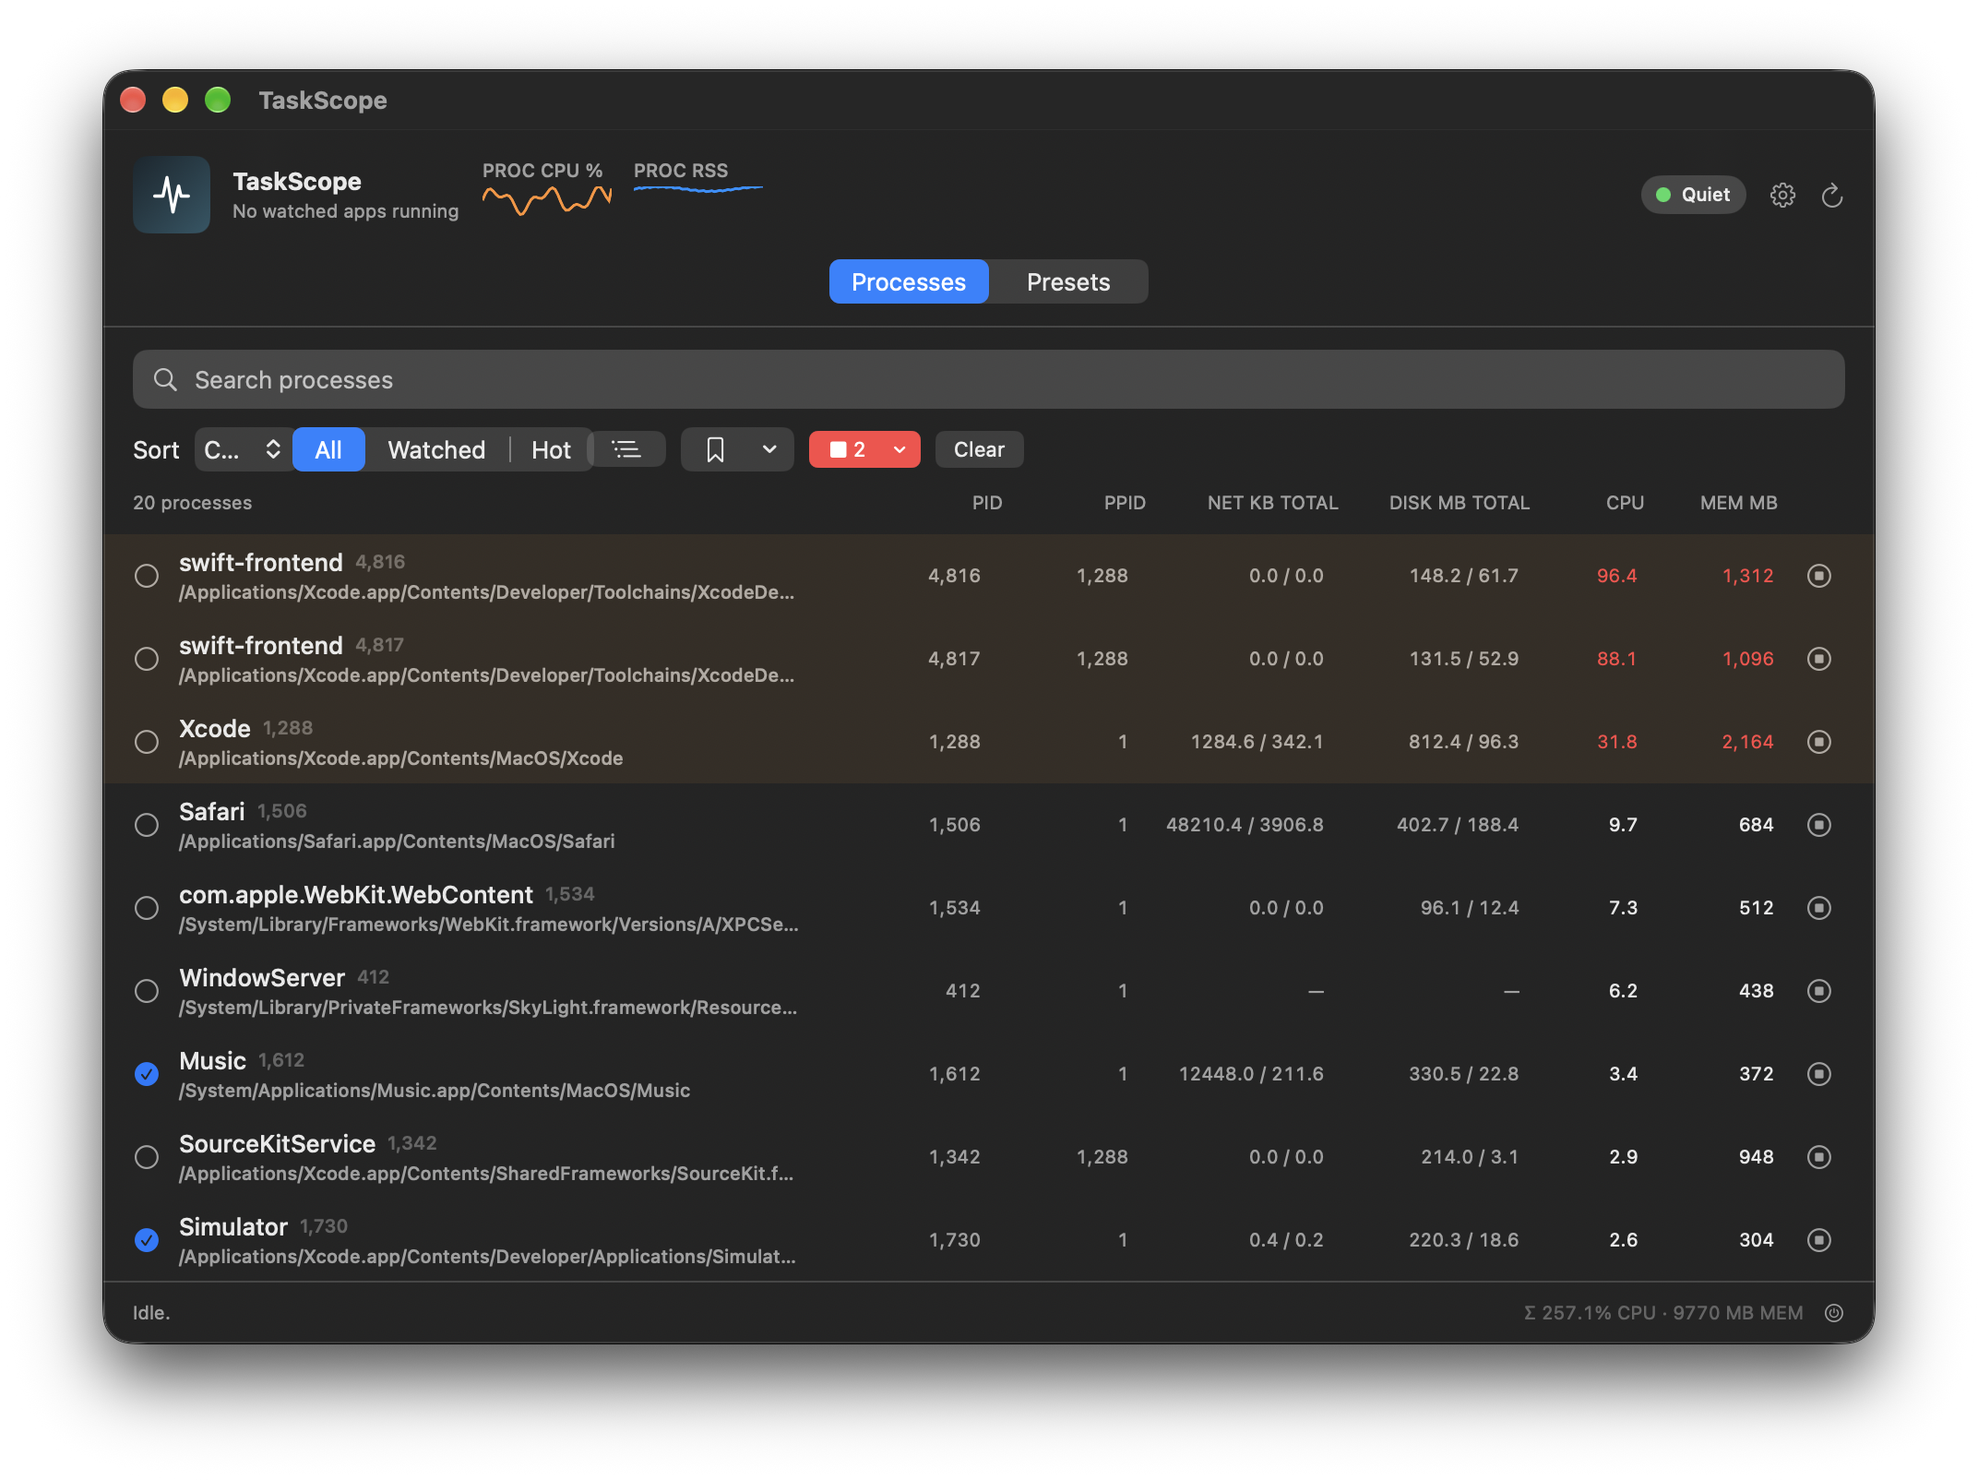
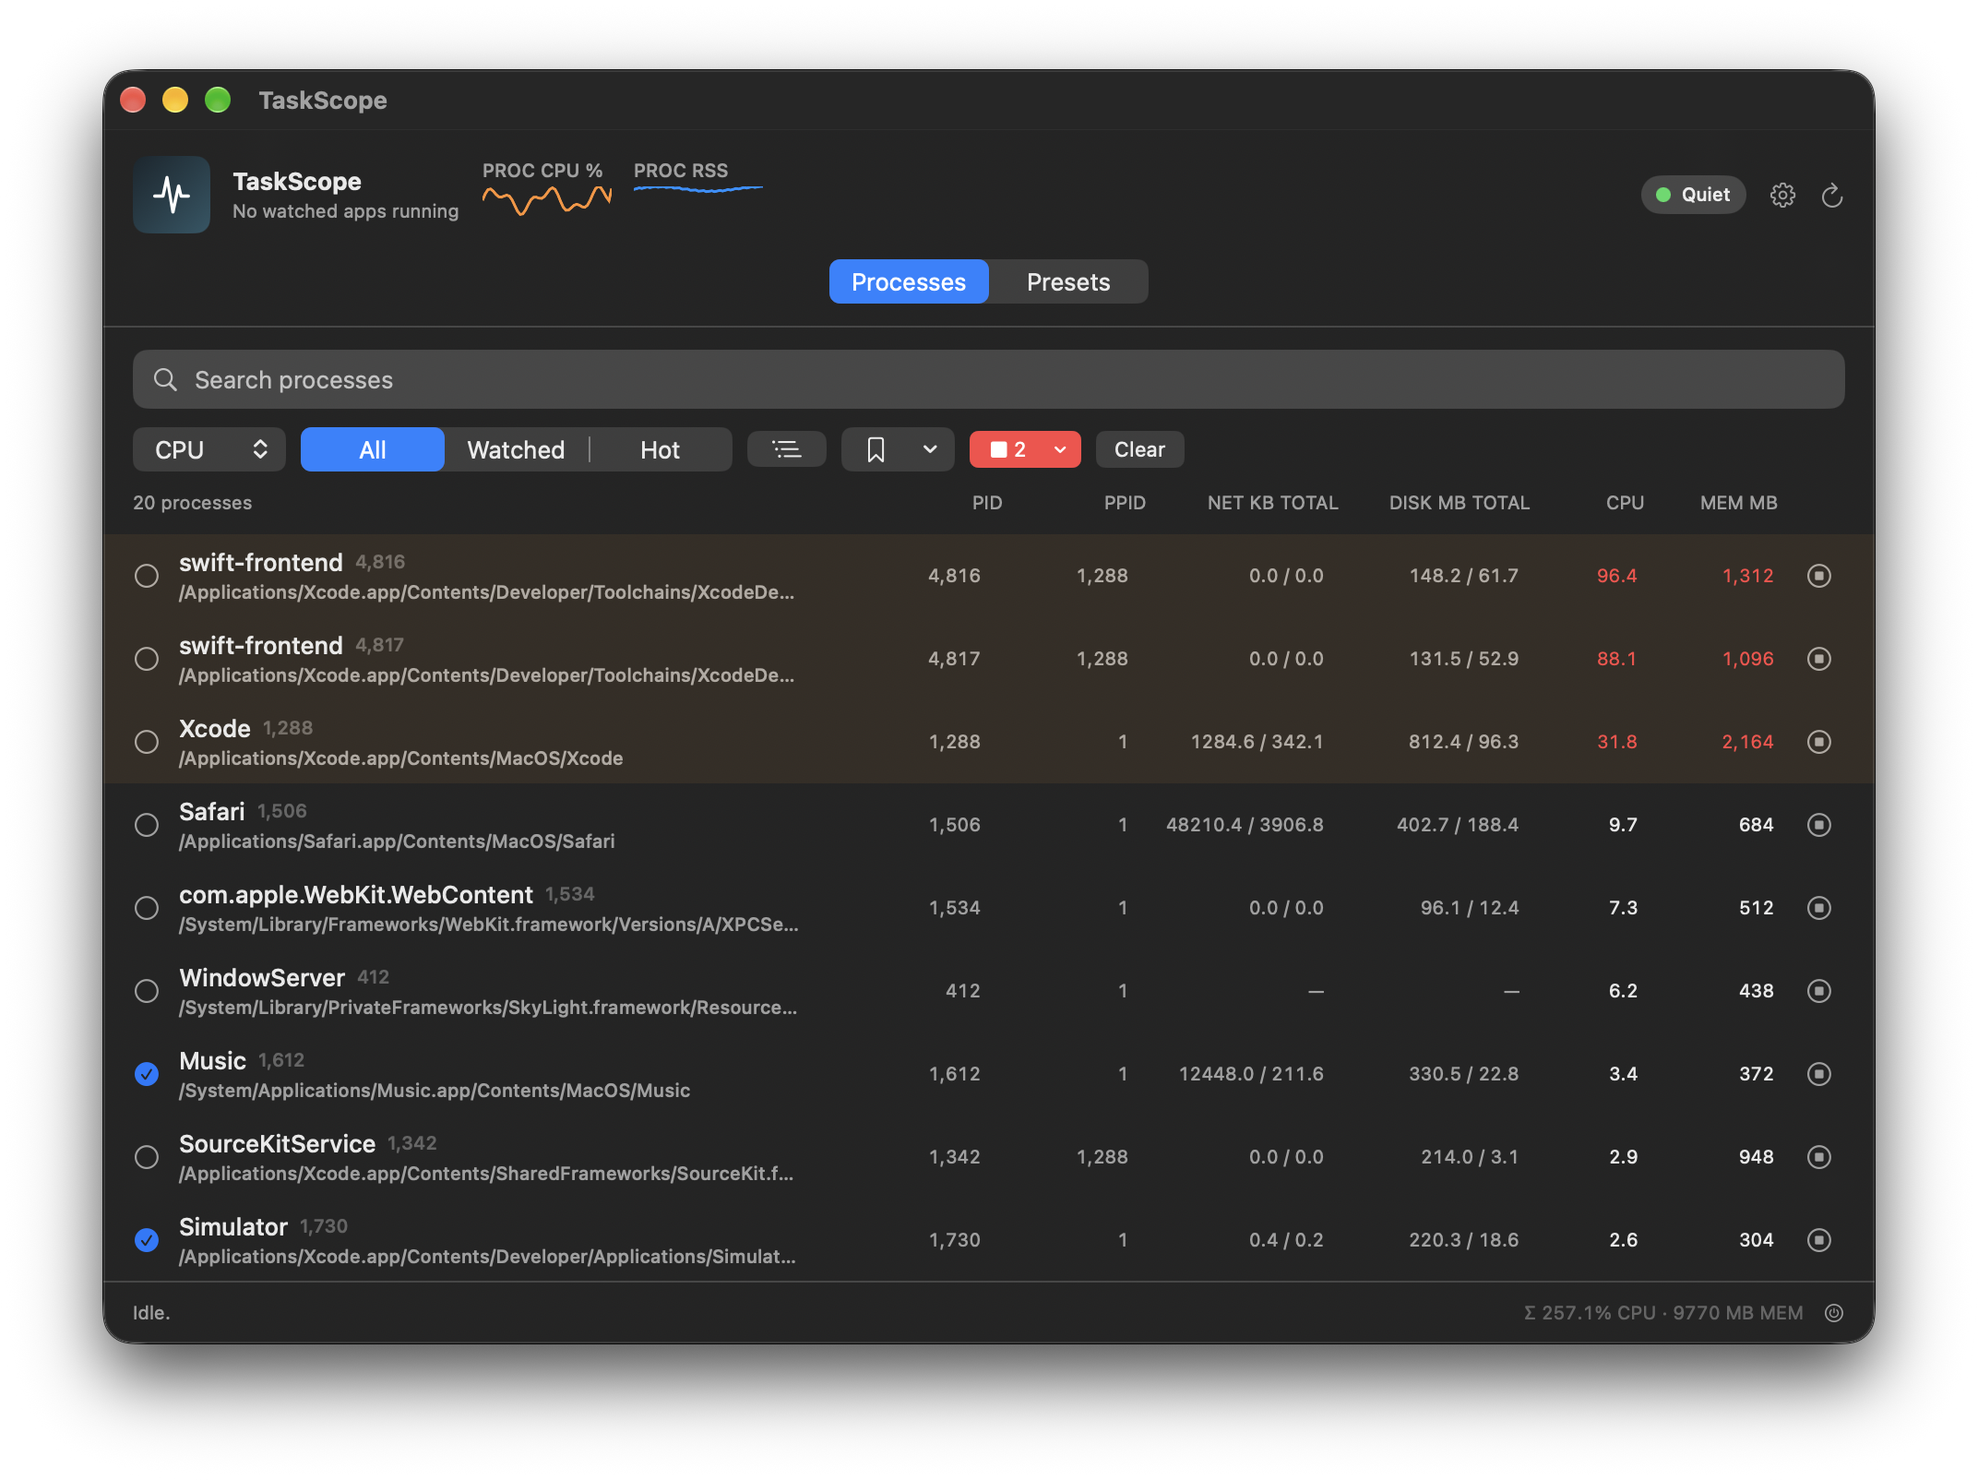
Size the Sort picker to its keys and wrap compact toolbar controls
On macOS 26 and later the Sort picker's visible label and popup shared a
fixed 90 pt frame, so the selected key rendered as "C..." instead of "CPU".
The filter control's fixed 140 pt frame was also narrower than its 234 pt
segmented control, which then overlapped its neighbors. In the 480 pt menu
bar popover a selection's stop menu and Clear button truncated as well.

Hide the Sort label (VoiceOver still reads "Sort", and a "Sort By" tooltip
replaces it), size both pickers to their content, and let ViewThatFits move
the saved-selection and selection controls to a second row when one row
does not fit. Refresh the main window screenshots.

Changed region(s): [[0.0625, 0.2805, 0.5938, 0.3429]]

diff --git a/Sources/TaskScope/Views/TaskScopePopoverView.swift b/Sources/TaskScope/Views/TaskScopePopoverView.swift
@@ -529,135 +529,23 @@ struct TaskScopePopoverView: View {
             .padding(.horizontal, 16)
             .padding(.top, 12)
 
-            HStack(spacing: 8) {
-                Picker("Sort", selection: Binding(
-                    get: { settings.sortKey },
-                    set: { newValue in
-                        settings.sortKeyRaw = newValue.rawValue
-                        processManager.sortKey = newValue
+            // The compact popover cannot fit every control on one row once a
+            // selection adds its actions, so the selection controls wrap below.
+            ViewThatFits(in: .horizontal) {
+                HStack(spacing: 8) {
+                    processListDisplayControls
+                    selectionControls
+                }
+                VStack(alignment: .leading, spacing: 8) {
+                    HStack(spacing: 8) {
+                        processListDisplayControls
                     }
-                )) {
-                    ForEach(ProcessSortKey.allCases) { key in
-                        Text(key.label).tag(key)
+                    HStack(spacing: 8) {
+                        selectionControls
                     }
                 }
-                .pickerStyle(.menu)
-                .frame(width: 90)
-
-                Picker("Filter", selection: $filterMode) {
-                    ForEach(ProcessFilterMode.allCases) { mode in
-                        Text(mode.label).tag(mode)
-                    }
-                }
-                .pickerStyle(.segmented)
-                .labelsHidden()
-                .frame(width: 140)
-
-                Toggle(isOn: $treeMode) {
-                    Label("Tree", systemImage: "list.bullet.indent")
-                        .labelStyle(.iconOnly)
-                }
-                .toggleStyle(.button)
-                .help("Tree View")
-                .accessibilityLabel("Tree view")
-                .accessibilityValue(treeMode ? "On" : "Off")
-
-                Menu {
-                    if let recoveryMessage = savedSelections.recoveryMessage {
-                        Text(recoveryMessage)
-                        if savedSelections.isReadOnlyAfterCorruption {
-                            // Saving stays disabled until this is pressed, so without
-                            // it the user could never save a selection again.
-                            Button("Reset Saved Selections After Backup") {
-                                savedSelections.resetAfterCorruption()
-                            }
-                        }
-                        Divider()
-                    }
-                    if savedSelections.selections.isEmpty {
-                        Text("No saved selections")
-                    } else {
-                        ForEach(savedSelections.selections) { sel in
-                            Menu(sel.name) {
-                                Button("Preview & Recall…") {
-                                    // Resolve against a fresh inventory: the list may
-                                    // never have been loaded, or may be a poll old.
-                                    Task {
-                                        guard await processManager.loadProcessList(showMessage: false) else {
-                                            pendingRecallResult = nil
-                                            pendingRecallSelection = nil
-                                            processManager.setMessage("Could not preview saved selection: \(processManager.processLoadError ?? "the process list could not be refreshed").")
-                                            return
-                                        }
-                                        pendingRecallResult = savedSelections.resolve(
-                                            sel,
-                                            in: processManager.inventorySnapshot
-                                        )
-                                        pendingRecallSelection = sel
-                                    }
-                                }
-                                Button("Rename…") {
-                                    savedSelections.clearValidationError()
-                                    renameSelectionName = sel.name
-                                    renameSelection = sel
-                                }
-                                Divider()
-                                Button("Delete", role: .destructive) {
-                                    savedSelections.remove(sel)
-                                }
-                            }
-                        }
-                        Divider()
-                    }
-                    if !processManager.selectedPids.isEmpty {
-                        Button("Save Current Selection…") {
-                            savedSelections.clearValidationError()
-                            saveSelectionName = ""
-                            showSaveSelectionSheet = true
-                        }
-                    }
-                } label: {
-                    Label("Saved", systemImage: "bookmark")
-                        .labelStyle(.iconOnly)
-                }
-                .help("Saved Selections")
-                .accessibilityLabel("Saved selections")
-
-                if !processManager.selectedPids.isEmpty {
-                    Menu {
-                        Button("Stop Selected…", role: .destructive) {
-                            confirmationState.requestBatch(
-                                processManager.selectionSnapshot(),
-                                mode: .normal
-                            )
-                        }
-                        Button("Force Stop Selected…", role: .destructive) {
-                            confirmationState.requestBatch(
-                                processManager.selectionSnapshot(),
-                                mode: .force
-                            )
-                        }
-                    } label: {
-                        Label("\(processManager.selectedPids.count)", systemImage: "stop.fill")
-                    }
-                    .buttonStyle(.borderedProminent)
-                    .tint(.red)
-                    .controlSize(.small)
-                    .accessibilityLabel(
-                        "Actions for \(processManager.selectedPids.count) selected processes"
-                    )
-
-                    Button {
-                        processManager.clearSelection()
-                    } label: {
-                        Text("Clear")
-                    }
-                    .buttonStyle(.bordered)
-                    .controlSize(.small)
-                }
-
-                Spacer()
             }
+            .frame(maxWidth: .infinity, alignment: .leading)
             .padding(.horizontal, 16)
 
             if processManager.hasLoadedProcessList,
@@ -801,6 +689,143 @@ struct TaskScopePopoverView: View {
                     }
                 }
             }
+        }
+    }
+
+    @ViewBuilder
+    private var processListDisplayControls: some View {
+        Picker("Sort", selection: Binding(
+            get: { settings.sortKey },
+            set: { newValue in
+                settings.sortKeyRaw = newValue.rawValue
+                processManager.sortKey = newValue
+            }
+        )) {
+            ForEach(ProcessSortKey.allCases) { key in
+                Text(key.label).tag(key)
+            }
+        }
+        .pickerStyle(.menu)
+        // A fixed frame shared with the visible label truncated the selected
+        // key on macOS 26, so the popup sizes itself to its widest key.
+        .labelsHidden()
+        .fixedSize()
+        .help("Sort By")
+        .accessibilityLabel("Sort")
+
+        Picker("Filter", selection: $filterMode) {
+            ForEach(ProcessFilterMode.allCases) { mode in
+                Text(mode.label).tag(mode)
+            }
+        }
+        .pickerStyle(.segmented)
+        .labelsHidden()
+        .fixedSize()
+
+        Toggle(isOn: $treeMode) {
+            Label("Tree", systemImage: "list.bullet.indent")
+                .labelStyle(.iconOnly)
+        }
+        .toggleStyle(.button)
+        .help("Tree View")
+        .accessibilityLabel("Tree view")
+        .accessibilityValue(treeMode ? "On" : "Off")
+    }
+
+    @ViewBuilder
+    private var selectionControls: some View {
+        Menu {
+            if let recoveryMessage = savedSelections.recoveryMessage {
+                Text(recoveryMessage)
+                if savedSelections.isReadOnlyAfterCorruption {
+                    // Saving stays disabled until this is pressed, so without
+                    // it the user could never save a selection again.
+                    Button("Reset Saved Selections After Backup") {
+                        savedSelections.resetAfterCorruption()
+                    }
+                }
+                Divider()
+            }
+            if savedSelections.selections.isEmpty {
+                Text("No saved selections")
+            } else {
+                ForEach(savedSelections.selections) { sel in
+                    Menu(sel.name) {
+                        Button("Preview & Recall…") {
+                            // Resolve against a fresh inventory: the list may
+                            // never have been loaded, or may be a poll old.
+                            Task {
+                                guard await processManager.loadProcessList(showMessage: false) else {
+                                    pendingRecallResult = nil
+                                    pendingRecallSelection = nil
+                                    processManager.setMessage("Could not preview saved selection: \(processManager.processLoadError ?? "the process list could not be refreshed").")
+                                    return
+                                }
+                                pendingRecallResult = savedSelections.resolve(
+                                    sel,
+                                    in: processManager.inventorySnapshot
+                                )
+                                pendingRecallSelection = sel
+                            }
+                        }
+                        Button("Rename…") {
+                            savedSelections.clearValidationError()
+                            renameSelectionName = sel.name
+                            renameSelection = sel
+                        }
+                        Divider()
+                        Button("Delete", role: .destructive) {
+                            savedSelections.remove(sel)
+                        }
+                    }
+                }
+                Divider()
+            }
+            if !processManager.selectedPids.isEmpty {
+                Button("Save Current Selection…") {
+                    savedSelections.clearValidationError()
+                    saveSelectionName = ""
+                    showSaveSelectionSheet = true
+                }
+            }
+        } label: {
+            Label("Saved", systemImage: "bookmark")
+                .labelStyle(.iconOnly)
+        }
+        .help("Saved Selections")
+        .accessibilityLabel("Saved selections")
+
+        if !processManager.selectedPids.isEmpty {
+            Menu {
+                Button("Stop Selected…", role: .destructive) {
+                    confirmationState.requestBatch(
+                        processManager.selectionSnapshot(),
+                        mode: .normal
+                    )
+                }
+                Button("Force Stop Selected…", role: .destructive) {
+                    confirmationState.requestBatch(
+                        processManager.selectionSnapshot(),
+                        mode: .force
+                    )
+                }
+            } label: {
+                Label("\(processManager.selectedPids.count)", systemImage: "stop.fill")
+            }
+            .buttonStyle(.borderedProminent)
+            .tint(.red)
+            .controlSize(.small)
+            .accessibilityLabel(
+                "Actions for \(processManager.selectedPids.count) selected processes"
+            )
+
+            Button {
+                processManager.clearSelection()
+            } label: {
+                Text("Clear")
+            }
+            .buttonStyle(.bordered)
+            .controlSize(.small)
         }
     }
 

diff --git a/Tests/TaskScopeTests/SwiftUIHarnessTests.swift b/Tests/TaskScopeTests/SwiftUIHarnessTests.swift
@@ -210,6 +210,45 @@ final class SwiftUIHarnessTests: XCTestCase {
         }
     }
 
+    func testProcessToolbarSizesPickersToContentAndWrapsSelectionControls() async throws {
+        let target = process(pid: 84, parentPID: 1, name: "Selected")
+        let fixture = await makeFixture(processes: [target])
+        defer { fixture.stores.cleanup() }
+        fixture.manager.select([target])
+        for style in [TaskScopePresentationStyle.expandedWindow, .menuBarCompact] {
+            let inspected = try makePopover(
+                fixture: fixture,
+                confirmationState: ProcessConfirmationState(),
+                presentationStyle: style
+            ).inspect()
+
+            // A fixed width shared with a visible label cut "CPU" to "C..." on macOS 26.
+            let sort = try inspected.find(ViewType.Picker.self) {
+                try $0.accessibilityLabel().string() == "Sort"
+            }
+            XCTAssertTrue(sort.labelsHidden())
+            XCTAssertTrue(try sort.fixedSize().horizontal)
+            XCTAssertThrowsError(try sort.fixedWidth())
+            XCTAssertEqual(try sort.help().string(), "Sort By")
+            for key in ProcessSortKey.allCases {
+                XCTAssertNoThrow(try sort.find(text: key.label))
+            }
+
+            let filter = try inspected.find(ViewType.Picker.self) {
+                try $0.labelView().text().string() == "Filter"
+            }
+            XCTAssertTrue(try filter.fixedSize().horizontal)
+            XCTAssertThrowsError(try filter.fixedWidth())
+
+            // The fallback row keeps every selection control at full width.
+            let wrapped = try inspected.find(ViewType.ViewThatFits.self).vStack(1).hStack(1)
+            XCTAssertNoThrow(try wrapped.find(ViewType.Menu.self) {
+                try $0.accessibilityLabel().string() == "Actions for 1 selected processes"
+            })
+            XCTAssertNoThrow(try wrapped.find(button: "Clear"))
+        }
+    }
+
     func testUserProtectedProcessBadgeMatchesServicesHeader() throws {
         let snapshot = WatchedAppSnapshot(preset: .globalProtect, runningNames: [],
                                           unprivilegedProtectedNames: ["PanGPS"])

diff --git a/CHANGELOG.md b/CHANGELOG.md
@@ -95,6 +95,7 @@ All notable changes to TaskScope are documented in this file. The project uses
 - Correct prompt target presentation, saved-selection read errors, stale-list recovery, settings-sheet validation, and accessibility labels.
 - Judge administrator system-daemon stops by a fixed disable-phase marker and bounded final launchd inspection; report cancelled or denied approval and failed disables after one inspection, and accept a nonzero bootout once the daemon is verified gone.
 - Require Prompt, Auto Stop, and Log Only thresholds to be reached on the kernel's monotonic process clock as well as `ps etime`, so a forward wall-clock step cannot make a rule act early.
+- Size the process list's Sort and filter pickers to their content so the sort key no longer truncates on macOS 26, and wrap the saved-selection and stop controls onto a second row when the menu bar popover is too narrow for one.
 
 ## [1.0.0] - 2026-08-08
 
